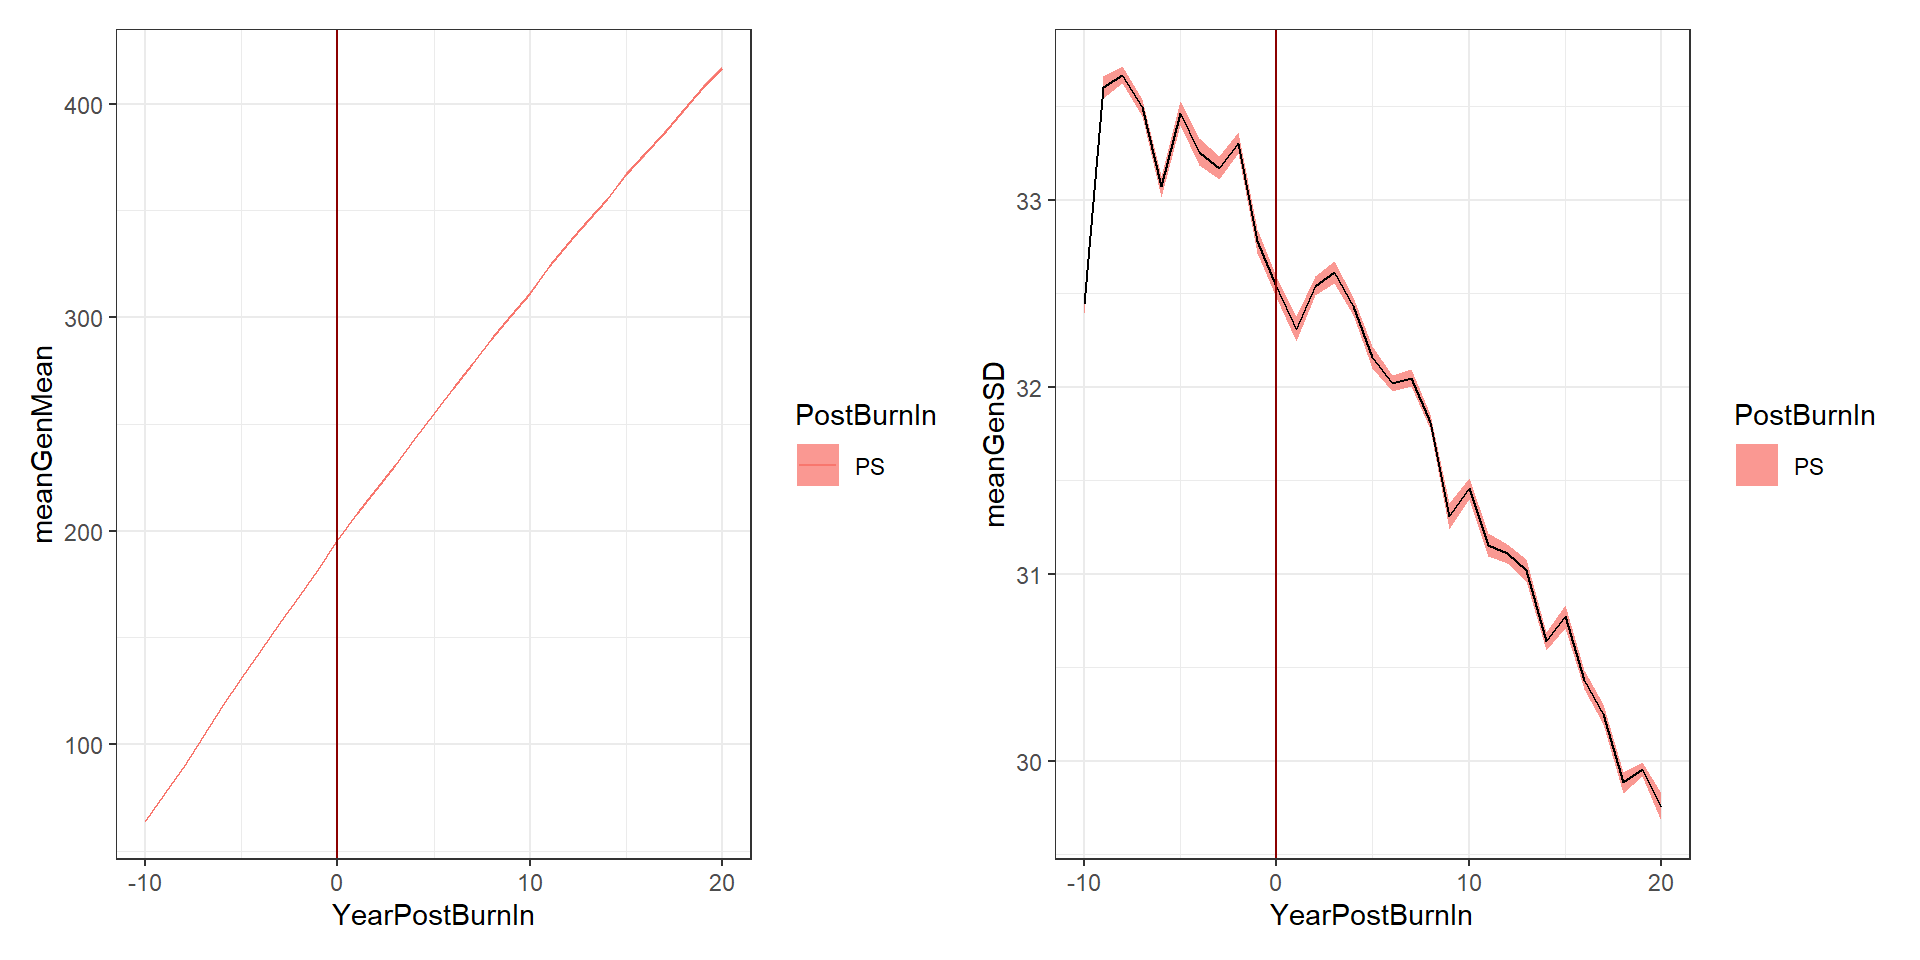
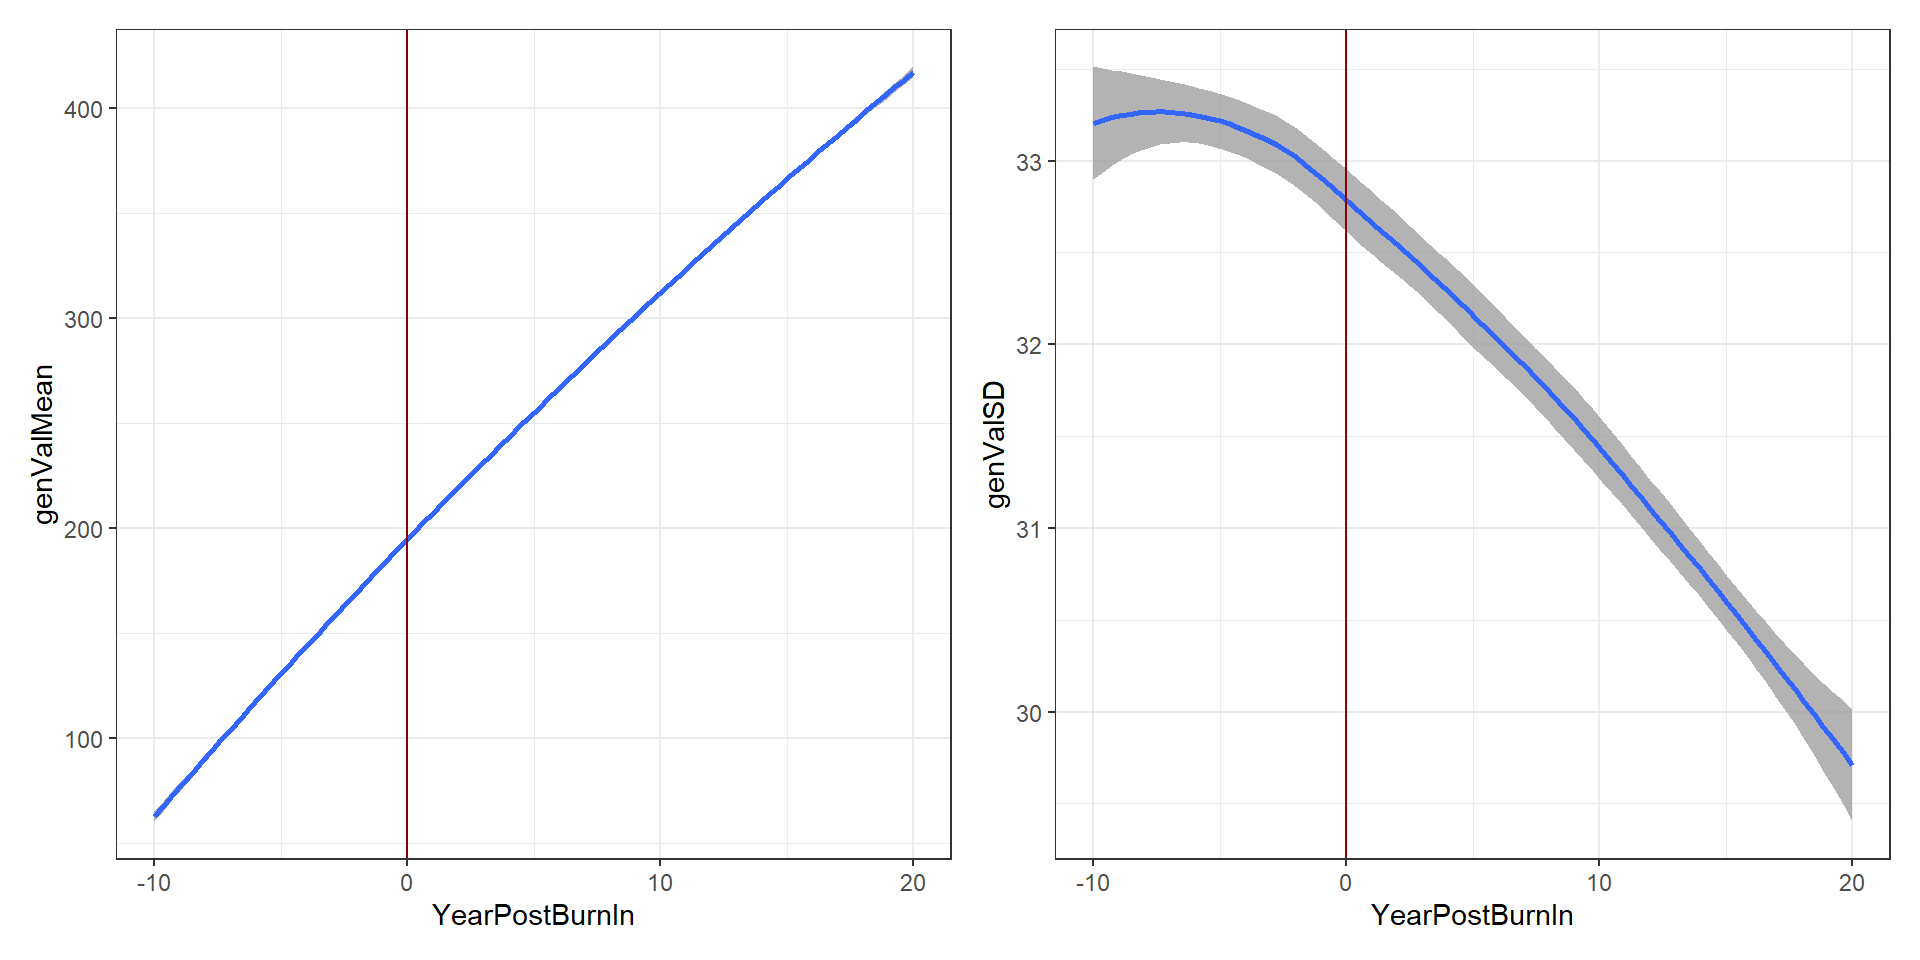
Last Commit of 9/16 for Luciano Simulation

diff --git a/docs/VD_Optimization.html b/docs/VD_Optimization.html
@@ -482,16 +482,16 @@ This reproducible <a href="http://rmarkdown.rstudio.com">R Markdown</a> analysis
 <div class="panel panel-default">
 <div class="panel-heading">
 <p class="panel-title">
-<a data-toggle="collapse" data-parent="#workflowr-checks" href="#strongRepositoryversionstrongahrefhttpsgithubcomLucianoRogerioCassavaBreedingSimtreece47519ab567ccf95b73492f53f0d93158cd06e1targetblankce47519a"> <span class="glyphicon glyphicon-ok text-success" aria-hidden="true"></span> <strong>Repository version:</strong> <a href="https://github.com/LucianoRogerio/CassavaBreedingSim/tree/ce47519ab567ccf95b73492f53f0d93158cd06e1" target="_blank">ce47519</a> </a>
+<a data-toggle="collapse" data-parent="#workflowr-checks" href="#strongRepositoryversionstrongahrefhttpsgithubcomLucianoRogerioCassavaBreedingSimtree49d28e8e9b976713aac4c4d05000fd0a03225e31targetblank49d28e8a"> <span class="glyphicon glyphicon-ok text-success" aria-hidden="true"></span> <strong>Repository version:</strong> <a href="https://github.com/LucianoRogerio/CassavaBreedingSim/tree/49d28e8e9b976713aac4c4d05000fd0a03225e31" target="_blank">49d28e8</a> </a>
 </p>
 </div>
[2 lines of base64/hex data omitted]
 <div class="panel-body">
 <p>
 Great! You are using Git for version control. Tracking code development and connecting the code version to the results is critical for reproducibility.
 </p>
 <p>
-The results in this page were generated with repository version <a href="https://github.com/LucianoRogerio/CassavaBreedingSim/tree/ce47519ab567ccf95b73492f53f0d93158cd06e1" target="_blank">ce47519</a>. See the <em>Past versions</em> tab to see a history of the changes made to the R Markdown and HTML files.
+The results in this page were generated with repository version <a href="https://github.com/LucianoRogerio/CassavaBreedingSim/tree/49d28e8e9b976713aac4c4d05000fd0a03225e31" target="_blank">49d28e8</a>. See the <em>Past versions</em> tab to see a history of the changes made to the R Markdown and HTML files.
 </p>
 <p>
 Note that you need to be careful to ensure that all relevant files for the analysis have been committed to Git prior to generating the results (you can use <code>wflow_publish</code> or <code>wflow_git_commit</code>). workflowr only checks the R Markdown file, but you know if there are other scripts or data files that it depends on. Below is the status of the Git repository when the results were generated:
@@ -500,16 +500,10 @@ Note that you need to be careful to ensure that all relevant files for the analy
 Ignored files:
     Ignored:    .Rhistory
     Ignored:    .Rproj.user/
-
-Untracked files:
-    Untracked:  output/DataSimPlot1.rds
-    Untracked:  output/DataSimPlot2.rds
+    Ignored:    analysis/figure/
 
 Unstaged changes:
     Modified:   analysis/VD_Optimization.Rmd
-
-Staged changes:
-    New:        data/baselineScheme - IITA - NVDP1.csv
 
 </code></pre>
 <p>
@@ -548,6 +542,40 @@ Message
 </tr>
 </thead>
 <tbody>
+<tr>
+<td>
+Rmd
+</td>
+<td>
+<a href="https://github.com/LucianoRogerio/CassavaBreedingSim/blob/49d28e8e9b976713aac4c4d05000fd0a03225e31/analysis/VD_Optimization.Rmd" target="_blank">49d28e8</a>
+</td>
+<td>
+LucianoRogerio
+</td>
+<td>
+2021-09-17
+</td>
+<td>
+Second changes for Luciano Simulations
+</td>
+</tr>
+<tr>
+<td>
+html
+</td>
+<td>
+<a href="https://rawcdn.githack.com/LucianoRogerio/CassavaBreedingSim/49d28e8e9b976713aac4c4d05000fd0a03225e31/docs/VD_Optimization.html" target="_blank">49d28e8</a>
+</td>
+<td>
+LucianoRogerio
+</td>
+<td>
+2021-09-17
+</td>
+<td>
+Second changes for Luciano Simulations
+</td>
+</tr>
 <tr>
 <td>
 Rmd
@@ -1007,27 +1035,30 @@ saveRDS(forSimPlot, here::here(&quot;output&quot;, &quot;DataSimPlot1.rds&quot;)
 library(patchwork)
 meanGplot1 &lt;- forSimPlot %&gt;% 
               group_by(PostBurnIn, YearPostBurnIn, year, stage) %&gt;% 
-              summarize(meanGenMean = mean(genValMean),
-              seGenMean = sd(genValMean) / n()) %&gt;% 
-              ggplot(., aes(x = YearPostBurnIn)) +
-              geom_ribbon(aes(ymin = meanGenMean - seGenMean, 
-                              ymax = meanGenMean + seGenMean,
-                              fill = PostBurnIn), 
-                          alpha=0.75) + 
-              geom_line(aes(y = meanGenMean, color=PostBurnIn))</code></pre>
-<pre><code>`summarise()` has grouped output by &#39;PostBurnIn&#39;, &#39;YearPostBurnIn&#39;, &#39;year&#39;. You can override using the `.groups` argument.</code></pre>
-<pre class="r"><code>sdGplot1 &lt;- forSimPlot %&gt;% 
+#              summarize(meanGenMean = mean(genValMean),
+#              seGenMean = sd(genValMean) / n()) %&gt;% 
+              ggplot(., aes(x = YearPostBurnIn, y = genValMean)) +
+              geom_smooth(method = &quot;loess&quot;, alpha = 0.75)# +
+#              geom_ribbon(aes(ymin = meanGenMean - seGenMean, 
+#                              ymax = meanGenMean + seGenMean,
+#                              fill = PostBurnIn), 
+#                          alpha=0.75) + 
+#              geom_line(aes(y = meanGenMean, color=PostBurnIn))
+sdGplot1 &lt;- forSimPlot %&gt;% 
             group_by(PostBurnIn, YearPostBurnIn, year, stage) %&gt;% 
-            summarize(meanGenSD = mean(genValSD),
-                      seGenSD = sd(genValSD) / n()) %&gt;% 
-            ggplot(., aes(x = YearPostBurnIn)) +
-            geom_ribbon(aes(ymin = meanGenSD - seGenSD, 
-                            ymax = meanGenSD + seGenSD,
-                            fill = PostBurnIn), 
-                        alpha = 0.75) + 
-            geom_line(aes(y = meanGenSD, group = PostBurnIn))</code></pre>
-<pre><code>`summarise()` has grouped output by &#39;PostBurnIn&#39;, &#39;YearPostBurnIn&#39;, &#39;year&#39;. You can override using the `.groups` argument.</code></pre>
-<pre class="r"><code>(meanGplot1 | sdGplot1) &amp; theme_bw() &amp; geom_vline(xintercept = 0, color = &#39;darkred&#39;)</code></pre>
+#            summarize(meanGenSD = mean(genValSD),
+#                      seGenSD = sd(genValSD) / n()) %&gt;% 
+            ggplot(., aes(x = YearPostBurnIn, y = genValSD)) +
+            geom_smooth(method = &quot;loess&quot;, alpha = 0.75)# +
+#            geom_ribbon(aes(ymin = meanGenSD - seGenSD, 
+#                            ymax = meanGenSD + seGenSD,
+#                            fill = PostBurnIn), 
+#                        alpha = 0.75) + 
+#            geom_line(aes(y = meanGenSD, group = PostBurnIn))
+
+(meanGplot1 | sdGplot1) &amp; theme_bw() &amp; geom_vline(xintercept = 0, color = &#39;darkred&#39;)</code></pre>
+<pre><code>`geom_smooth()` using formula &#39;y ~ x&#39;
+`geom_smooth()` using formula &#39;y ~ x&#39;</code></pre>
 <p><img src="figure/VD_Optimization.Rmd/unnamed-chunk-6-1.png" width="960" style="display: block; margin: auto;" /></p>
 </div>
 </div>
@@ -1198,27 +1229,30 @@ saveRDS(forSimPlot, &quot;DataSimPlot2.rds&quot;)</code></pre>
 library(patchwork)
 meanGplot2 &lt;- forSimPlot %&gt;% 
               group_by(PostBurnIn, YearPostBurnIn, year, stage) %&gt;% 
-              summarize(meanGenMean = mean(genValMean),
-              seGenMean = sd(genValMean) / n()) %&gt;% 
-              ggplot(., aes(x = YearPostBurnIn)) +
-              geom_ribbon(aes(ymin = meanGenMean - seGenMean, 
-                              ymax = meanGenMean + seGenMean,
-                              fill = PostBurnIn), 
-                          alpha=0.75) + 
-              geom_line(aes(y = meanGenMean, color=PostBurnIn))</code></pre>
-<pre><code>`summarise()` has grouped output by &#39;PostBurnIn&#39;, &#39;YearPostBurnIn&#39;, &#39;year&#39;. You can override using the `.groups` argument.</code></pre>
-<pre class="r"><code>sdGplot2 &lt;- forSimPlot %&gt;% 
+#              summarize(meanGenMean = mean(genValMean),
+#              seGenMean = sd(genValMean) / n()) %&gt;% 
+              ggplot(., aes(x = YearPostBurnIn, y = genValMean)) +
+              geom_smooth(method = &quot;loess&quot;, alpha = 0.75)# +
+#              geom_ribbon(aes(ymin = meanGenMean - seGenMean, 
+#                              ymax = meanGenMean + seGenMean,
+#                              fill = PostBurnIn), 
+#                          alpha=0.75) + 
+#              geom_line(aes(y = meanGenMean, color=PostBurnIn))
+sdGplot2 &lt;- forSimPlot %&gt;% 
             group_by(PostBurnIn, YearPostBurnIn, year, stage) %&gt;% 
-            summarize(meanGenSD = mean(genValSD),
-                      seGenSD = sd(genValSD) / n()) %&gt;% 
-            ggplot(., aes(x = YearPostBurnIn)) +
-            geom_ribbon(aes(ymin = meanGenSD - seGenSD, 
-                            ymax = meanGenSD + seGenSD,
-                            fill = PostBurnIn), 
-                        alpha = 0.75) + 
-            geom_line(aes(y = meanGenSD, group = PostBurnIn))</code></pre>
-<pre><code>`summarise()` has grouped output by &#39;PostBurnIn&#39;, &#39;YearPostBurnIn&#39;, &#39;year&#39;. You can override using the `.groups` argument.</code></pre>
-<pre class="r"><code>(meanGplot2 | sdGplot2) &amp; theme_bw() &amp; geom_vline(xintercept = 0, color = &#39;darkred&#39;)</code></pre>
+#            summarize(meanGenSD = mean(genValSD),
+#                      seGenSD = sd(genValSD) / n()) %&gt;% 
+            ggplot(., aes(x = YearPostBurnIn, y = genValSD)) +
+            geom_smooth(method = &quot;loess&quot;, alpha = 0.75)# +
+#            geom_ribbon(aes(ymin = meanGenSD - seGenSD, 
+#                            ymax = meanGenSD + seGenSD,
+#                            fill = PostBurnIn), 
+#                        alpha = 0.75) + 
+#            geom_line(aes(y = meanGenSD, group = PostBurnIn))
+
+(meanGplot2 | sdGplot2) &amp; theme_bw() &amp; geom_vline(xintercept = 0, color = &#39;darkred&#39;)</code></pre>
+<pre><code>`geom_smooth()` using formula &#39;y ~ x&#39;
+`geom_smooth()` using formula &#39;y ~ x&#39;</code></pre>
 <p><img src="figure/VD_Optimization.Rmd/unnamed-chunk-10-1.png" width="960" style="display: block; margin: auto;" /></p>
 <br>
 <p>
@@ -1248,23 +1282,25 @@ other attached packages:
  [9] tibble_3.1.4    ggplot2_3.3.5   tidyverse_1.3.1 workflowr_1.6.2
 
 loaded via a namespace (and not attached):
- [1] Rcpp_1.0.7        here_1.0.1        lubridate_1.7.10  assertthat_0.2.1 
- [5] rprojroot_2.0.2   digest_0.6.27     utf8_1.2.2        reactR_0.4.4     
- [9] R6_2.5.1          cellranger_1.1.0  backports_1.2.1   reprex_2.0.1     
-[13] evaluate_0.14     highr_0.9         httr_1.4.2        pillar_1.6.2     
-[17] rlang_0.4.11      readxl_1.3.1      rstudioapi_0.13   whisker_0.4      
-[21] jquerylib_0.1.4   rmarkdown_2.10    labeling_0.4.2    htmlwidgets_1.5.3
-[25] munsell_0.5.0     broom_0.7.9       compiler_4.1.1    httpuv_1.6.2     
-[29] modelr_0.1.8      xfun_0.25         pkgconfig_2.0.3   htmltools_0.5.2  
-[33] tidyselect_1.1.1  fansi_0.5.0       crayon_1.4.1      tzdb_0.1.2       
-[37] dbplyr_2.1.1      withr_2.4.2       later_1.3.0       grid_4.1.1       
-[41] jsonlite_1.7.2    gtable_0.3.0      lifecycle_1.0.0   DBI_1.1.1        
-[45] git2r_0.28.0      magrittr_2.0.1    scales_1.1.1      cli_3.0.1        
-[49] stringi_1.7.4     farver_2.1.0      fs_1.5.0          promises_1.2.0.1 
-[53] xml2_1.3.2        bslib_0.2.5.1     ellipsis_0.3.2    generics_0.1.0   
-[57] vctrs_0.3.8       tools_4.1.1       glue_1.4.2        crosstalk_1.1.1  
-[61] hms_1.1.0         fastmap_1.1.0     yaml_2.2.1        colorspace_2.0-2 
-[65] rvest_1.0.1       knitr_1.33        haven_2.4.3       sass_0.4.0       </code></pre>
+ [1] httr_1.4.2        sass_0.4.0        jsonlite_1.7.2    splines_4.1.1    
+ [5] here_1.0.1        modelr_0.1.8      bslib_0.2.5.1     assertthat_0.2.1 
+ [9] highr_0.9         cellranger_1.1.0  yaml_2.2.1        pillar_1.6.2     
+[13] backports_1.2.1   lattice_0.20-44   glue_1.4.2        digest_0.6.27    
+[17] promises_1.2.0.1  rvest_1.0.1       colorspace_2.0-2  htmltools_0.5.2  
+[21] httpuv_1.6.2      Matrix_1.3-4      reactR_0.4.4      pkgconfig_2.0.3  
+[25] broom_0.7.9       haven_2.4.3       scales_1.1.1      whisker_0.4      
+[29] later_1.3.0       tzdb_0.1.2        git2r_0.28.0      mgcv_1.8-36      
+[33] farver_2.1.0      generics_0.1.0    ellipsis_0.3.2    withr_2.4.2      
+[37] cli_3.0.1         magrittr_2.0.1    crayon_1.4.1      readxl_1.3.1     
+[41] evaluate_0.14     fs_1.5.0          fansi_0.5.0       nlme_3.1-152     
+[45] xml2_1.3.2        tools_4.1.1       hms_1.1.0         lifecycle_1.0.0  
+[49] munsell_0.5.0     reprex_2.0.1      compiler_4.1.1    jquerylib_0.1.4  
+[53] rlang_0.4.11      grid_4.1.1        rstudioapi_0.13   htmlwidgets_1.5.3
+[57] crosstalk_1.1.1   labeling_0.4.2    rmarkdown_2.10    gtable_0.3.0     
+[61] DBI_1.1.1         R6_2.5.1          lubridate_1.7.10  knitr_1.33       
+[65] fastmap_1.1.0     utf8_1.2.2        rprojroot_2.0.2   stringi_1.7.4    
+[69] Rcpp_1.0.7        vctrs_0.3.8       dbplyr_2.1.1      tidyselect_1.1.1 
+[73] xfun_0.25        </code></pre>
 </div>
 </div>
 </div>
